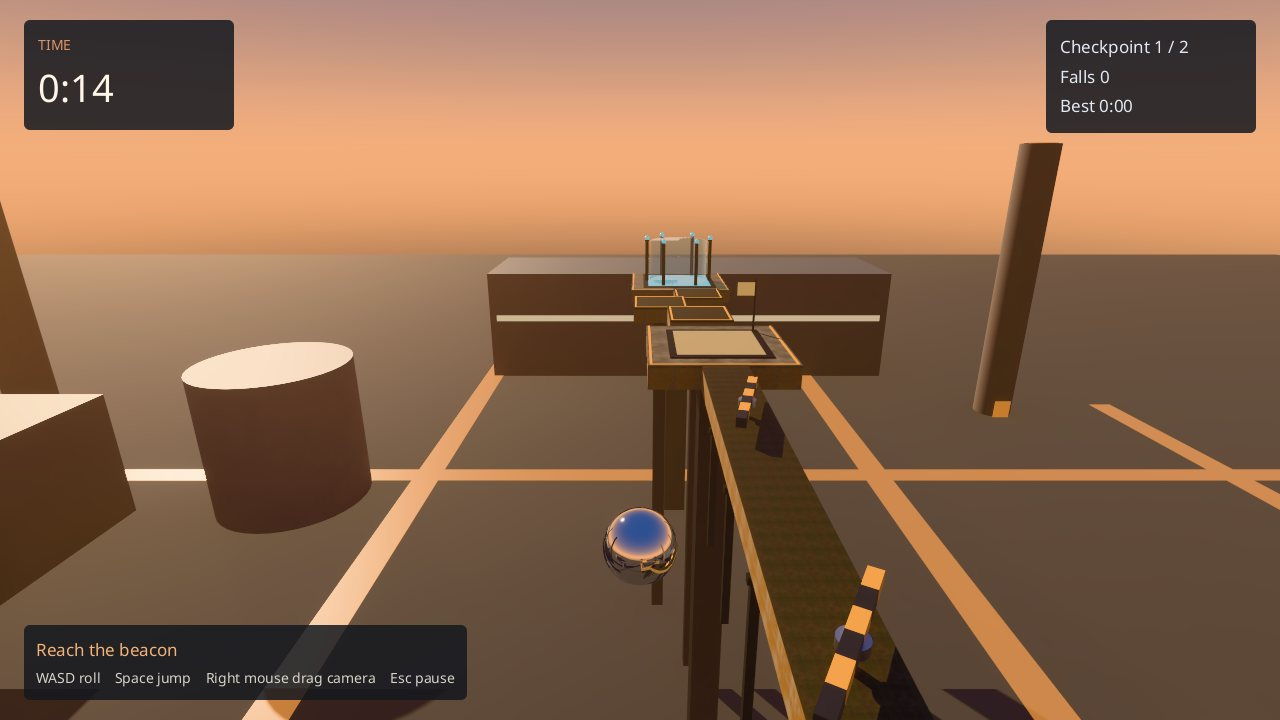
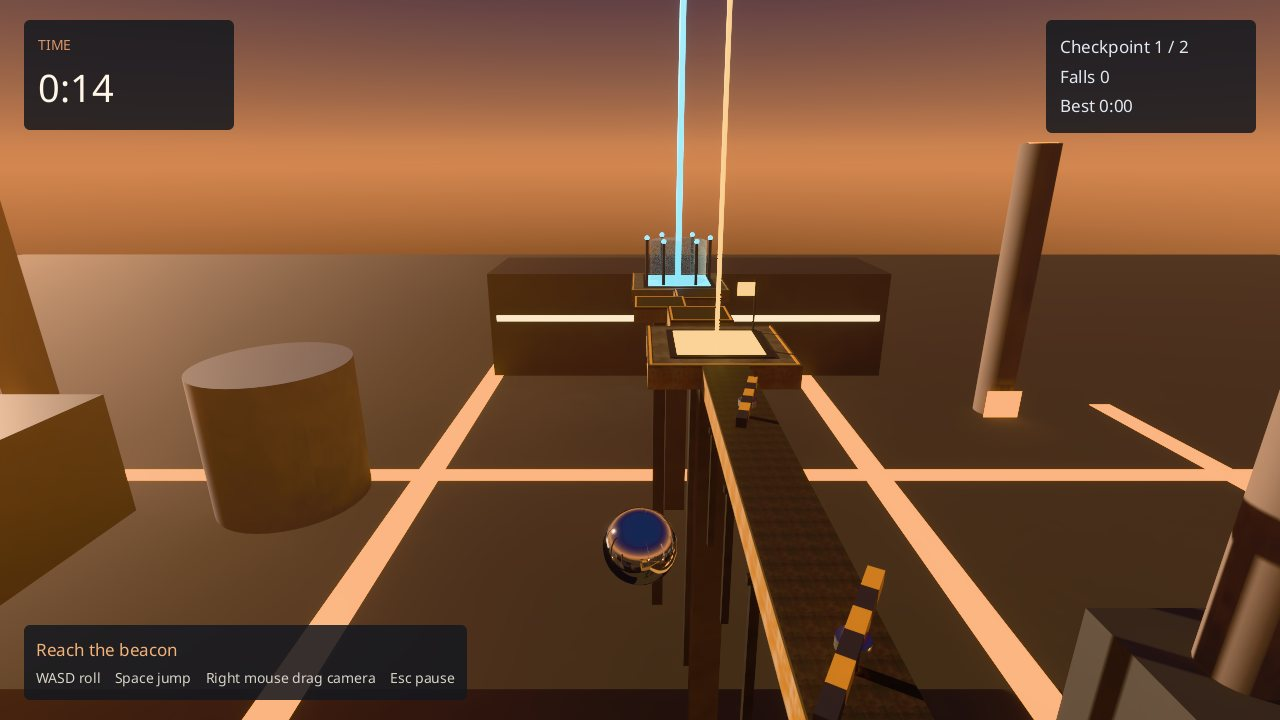
Glint look 1/3: dusk light
A low sun raking from the right (13 degrees), EV100 11, a dark gradient sky, darker yard, two
big furnaces beside the route as 15 MW-class warm point lights with visible pools, checkpoint
and goal lights strong enough to read against the sun, tall lit pillars and a cyan beacon, an
establishing camera. Colliders unchanged: the replay still finishes in 1947 ticks.

diff --git a/crates/ara-samples/src/build/glint/mod.rs b/crates/ara-samples/src/build/glint/mod.rs
@@ -19,7 +19,7 @@ use super::{
 };
 use anyhow::Result;
 use glam::Vec3;
-use kits::{BAR, CHIMNEYS, MOVER_SIZE, SLAB, SLABS, YARD_FLOOR};
+use kits::{BAR, CHIMNEYS, FURNACES, MOVER_SIZE, SLAB, SLABS, YARD_FLOOR};
 use serde_json::{Value, json};
 
 /// Gameplay scene.
@@ -27,11 +27,12 @@ pub const SCENE: (&str, &str) = ("levels/glint.scene", "sc_glint000001");
 /// The menu backdrop the native shell requires at this path.
 const MENU: (&str, &str) = ("levels/menu.scene", "sc_glint000002");
 /// Fixed exposure (EV100): no auto-exposure anywhere.
-const EV100: f32 = 13.0;
+const EV100: f32 = 11.0;
 /// Where the ball starts.
 const START: Vec3 = Vec3::new(0.0, 0.6, -2.0);
-/// Direction the sun's light travels (about 28 degrees above the horizon).
-const SUN: Vec3 = Vec3::new(-0.55, -0.47, -0.69);
+/// Direction the sun's light travels: about 13 degrees above the horizon, raking across the
+/// course from its right and ahead, so slab edges and bars throw long shadows left and back.
+const SUN: Vec3 = Vec3::new(-0.85, -0.22, -0.47);
 
 /// The moving platform's path: centre, travel, period in ticks.
 const MOVER_ORIGIN: Vec3 = Vec3::new(0.0, 0.8 - SLAB * 0.5, 32.5);
@@ -77,11 +78,11 @@ fn art(s: &mut Scene) {
         "e_env",
         "Dusk sky and fixed exposure",
         json!({
-            "Environment": {"sky": [0.1, 0.2, 0.55, 1], "horizon": [1.0, 0.6, 0.32, 1], "skyFalloff": 2.5,
-                "glow": [0.9, 0.3, 0.1, 1], "glowFalloff": 8, "ground": [0.1, 0.08, 0.07, 1],
-                "intensity": 6000, "skyLight": 1},
+            "Environment": {"sky": [0.03, 0.06, 0.2, 1], "horizon": [0.8, 0.4, 0.2, 1], "skyFalloff": 4.5,
+                "glow": [0.7, 0.2, 0.05, 1], "glowFalloff": 14, "ground": [0.03, 0.025, 0.025, 1],
+                "intensity": 1200, "skyLight": 1},
             // Dusk haze: warm height fog thickens toward the yard far below.
-            "HeightFog": {"density": 0.0003, "falloff": 30, "albedo": [1.0, 0.72, 0.52, 1], "anisotropy": 0.6},
+            "HeightFog": {"density": 0.0001, "falloff": 30, "albedo": [1.0, 0.72, 0.52, 1], "anisotropy": 0.6},
             "PostProcessVolume": {"overrides": [
                 {"exposure": "manual", "ev100": EV100},
                 {"module": "toneMapping", "toneMapping": "neutral"},
@@ -92,25 +93,37 @@ fn art(s: &mut Scene) {
         "e_sun",
         "Sun",
         Vec3::new(0.0, 40.0, 30.0),
-        json!({"kind": "directional", "color": [1.0, 0.76, 0.52, 1], "intensity": 80_000, "sourceAngle": 0.5357}),
+        json!({"kind": "directional", "color": [1.0, 0.7, 0.48, 1], "intensity": 25_000, "sourceAngle": 0.5357}),
         Some(SUN),
     ));
     // Furnace glow at the chimneys' feet, far below; checkpoint and goal lights on the course.
+    // The two big furnaces beside the route, mouths facing the start: the key warm sources.
+    for (i, (x, z)) in FURNACES.iter().enumerate() {
+        s.commands.extend(lamp(
+            &format!("e_lmouth{i}"),
+            "Furnace mouth",
+            Vec3::new(*x, YARD_FLOOR + 3.5, z - 11.0),
+            [1.0, 0.45, 0.12],
+            15_000_000.0,
+            2.0,
+            90.0,
+        ));
+    }
     for (i, (x, z, _, _)) in CHIMNEYS.iter().take(4).enumerate() {
         s.commands.extend(lamp(
             &format!("e_lfurn{i}"),
             "Furnace glow",
             Vec3::new(*x, YARD_FLOOR + 3.0, z - 4.0),
             [1.0, 0.4, 0.1],
-            60_000.0,
-            0.8,
-            45.0,
+            6_000_000.0,
+            1.6,
+            90.0,
         ));
     }
     for (i, z) in [40.0f32, 66.0].into_iter().enumerate() {
-        s.commands.extend(lamp(&format!("e_lcp{i}"), "Checkpoint light", Vec3::new(0.0, 2.2, z), [1.0, 0.62, 0.22], 900.0, 0.12, 8.0));
+        s.commands.extend(lamp(&format!("e_lcp{i}"), "Checkpoint light", Vec3::new(0.0, 2.4, z), [1.0, 0.62, 0.22], 150_000.0, 0.3, 18.0));
     }
-    s.commands.extend(lamp("e_lgoal", "Goal light", Vec3::new(0.0, -0.4, 94.0), [0.3, 0.85, 1.0], 1800.0, 0.3, 14.0));
+    s.commands.extend(lamp("e_lgoal", "Goal light", Vec3::new(0.0, 0.0, 94.0), [0.3, 0.85, 1.0], 300_000.0, 0.5, 30.0));
     s.prop(Prop::new("e_course", "Catwalk", "glint_course", Vec3::ZERO, 0.0).at_origin().decor());
     s.prop(
         Prop::new("e_yard", "Foundry yard", "glint_yard", Vec3::ZERO, 0.0)
@@ -211,6 +224,13 @@ fn game(ctx: &Ctx) -> Result<()> {
             "FollowCamera": {"target": "e_ball", "distance": 7.5, "height": 2.6, "pitch": 18},
         }),
     );
+    // An establishing shot for previews; a higher priority number keeps the follow camera active.
+    s.entity(
+        "e_camwide",
+        "Establishing camera",
+        json!({"Transform": {"position": [-26.0, 12.0, -24.0]}, "Camera": {"fov": 52, "priority": 10}}),
+    );
+    s.commands.push(("transform.lookAt", json!({"entity": "e_camwide", "point": [2.0, -7.0, 52.0]})));
     s.entity("e_run", "Run", json!({"GlintRun": {"checkpointCount": 2, "start": START.to_array()}}));
     let calls = std::mem::take(&mut s.commands);
     ctx.apply(SCENE.0, "Glint: Foundry Steps, ball, course and run director", calls)?;

diff --git a/crates/ara-samples/src/build/glint/kits.rs b/crates/ara-samples/src/build/glint/kits.rs
@@ -78,6 +78,9 @@ pub const CHIMNEYS: [(f32, f32, f32, f32); 5] = [
     (-44.0, 118.0, 2.2, 34.0),
 ];
 
+/// The two big furnaces beside the route: centre X, Z of the building (mouth faces -Z).
+pub const FURNACES: [(f32, f32); 2] = [(26.0, 24.0), (-28.0, 60.0)];
+
 /// The moving platform's size (X, Z).
 pub const MOVER_SIZE: (f32, f32) = (3.2, 3.2);
 /// The spinner bar's length, thickness.
@@ -201,6 +204,8 @@ pub fn pad(root: &Path, lock: &Lock) -> Result<String> {
     // A flag post at the back left: a pole and a lit pennant.
     k.cylinder(0, 0.05, 2.4, 12, Mat4::from_translation(v(-1.9, 0.05, 1.9)), Vec2::ONE);
     slab_box(&mut k, 1, v(-1.9, 1.7, 1.86), v(-1.9 + 0.8, 2.3, 1.9 + 0.0), Vec2::ONE);
+    // A lit pillar over the pad, so a checkpoint reads from the far end of the course.
+    k.cylinder(1, 0.09, 16.0, 12, Mat4::from_translation(v(0.0, 0.07, 0.0)), Vec2::ONE);
     k.write(root, lock, "glint_pad")
 }
 
@@ -220,6 +225,8 @@ pub fn goal(root: &Path, lock: &Lock) -> Result<String> {
         k.cylinder(0, 0.14, 3.6, 12, Mat4::from_translation(p), Vec2::ONE);
         k.sphere(1, p + v(0.0, 3.7, 0.0), 0.2, 16, Vec2::ONE);
     }
+    // The beacon: a tall lit pillar, visible from the start.
+    k.cylinder(1, 0.24, 48.0, 16, Mat4::from_translation(v(0.0, 0.08, 0.0)), Vec2::ONE);
     // A glass cylinder of light over the plate.
     k.cylinder(2, 2.4, 3.4, 48, Mat4::from_translation(v(0.0, 0.08, 0.0)), Vec2::ONE);
     k.write(root, lock, "glint_goal")
@@ -236,11 +243,11 @@ pub fn yard(root: &Path, lock: &Lock) -> Result<String> {
     const GLASS: usize = 5;
     const WINDOW: usize = 6;
     let mut k = Kit::new(vec![
-        Material::flat("yard ground", [0.07, 0.065, 0.06], 0.95, 0.0),
+        Material::flat("yard ground", [0.06, 0.055, 0.05], 0.95, 0.0),
         Material::flat("sooty brick", [0.15, 0.12, 0.105], 0.92, 0.0),
         Material::flat("tank steel", [0.22, 0.23, 0.25], 0.62, 0.4),
         Material::emitter("slag", [1.0, 0.38, 0.08]),
-        Material::flat("shed cladding", [0.16, 0.17, 0.18], 0.6, 0.6),
+        Material::flat("shed cladding", [0.07, 0.075, 0.08], 0.6, 0.6),
         Material::glass("control glass", [0.6, 0.8, 0.9], 0.3),
         Material::emitter("window light", [1.0, 0.82, 0.55]),
     ]);
@@ -258,7 +265,14 @@ pub fn yard(root: &Path, lock: &Lock) -> Result<String> {
     for (x, z, r, h) in CHIMNEYS {
         k.cylinder(BRICK, r, h, 32, Mat4::from_translation(v(x, floor, z)), Vec2::ONE);
         k.cylinder(SLAG, r * 0.8, 0.3, 24, Mat4::from_translation(v(x, floor + h - 0.2, z)), Vec2::ONE);
-        slab_box(&mut k, SLAG, v(x - 1.0, floor, z - r - 0.1), v(x + 1.0, floor + 2.2, z - r), Vec2::ONE);
+        slab_box(&mut k, SLAG, v(x - 2.2, floor, z - r - 0.1), v(x + 2.2, floor + 3.6, z - r), Vec2::ONE);
+    }
+    // Furnaces: a dark block, a wide glowing mouth, a hood and a short stack.
+    for (x, z) in FURNACES {
+        slab_box(&mut k, SHED, v(x - 9.0, floor, z - 6.0), v(x + 9.0, floor + 11.0, z + 6.0), Vec2::ONE);
+        slab_box(&mut k, SLAG, v(x - 5.0, floor + 1.2, z - 6.05), v(x + 5.0, floor + 6.0, z - 6.0), Vec2::ONE);
+        slab_box(&mut k, SHED, v(x - 6.0, floor + 6.0, z - 7.2), v(x + 6.0, floor + 7.2, z - 5.8), Vec2::ONE);
+        k.cylinder(BRICK, 1.6, 16.0, 24, Mat4::from_translation(v(x + 5.0, floor + 11.0, z + 2.0)), Vec2::ONE);
     }
     // Tanks and sheds.
     for (x, z, r, h) in [(-34.0, 60.0, 6.0, 12.0), (34.0, 20.0, 5.0, 10.0), (38.0, 96.0, 7.0, 14.0), (-30.0, 8.0, 4.5, 9.0)] {
